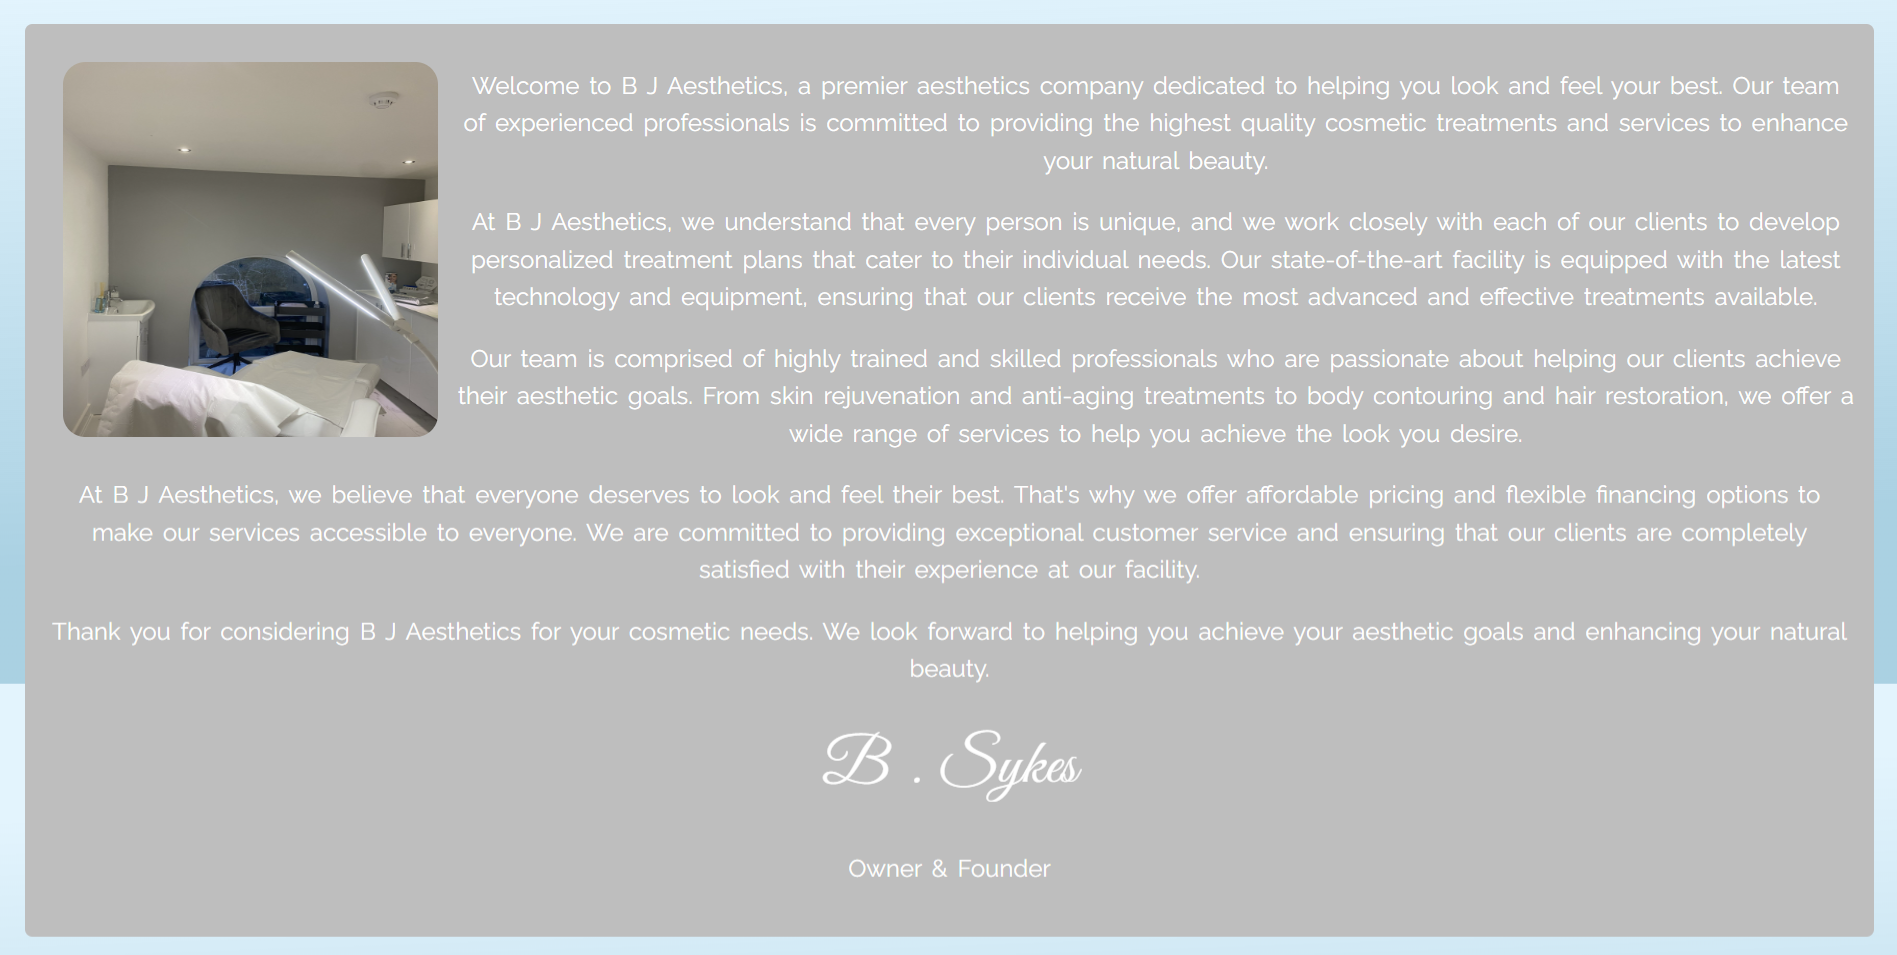
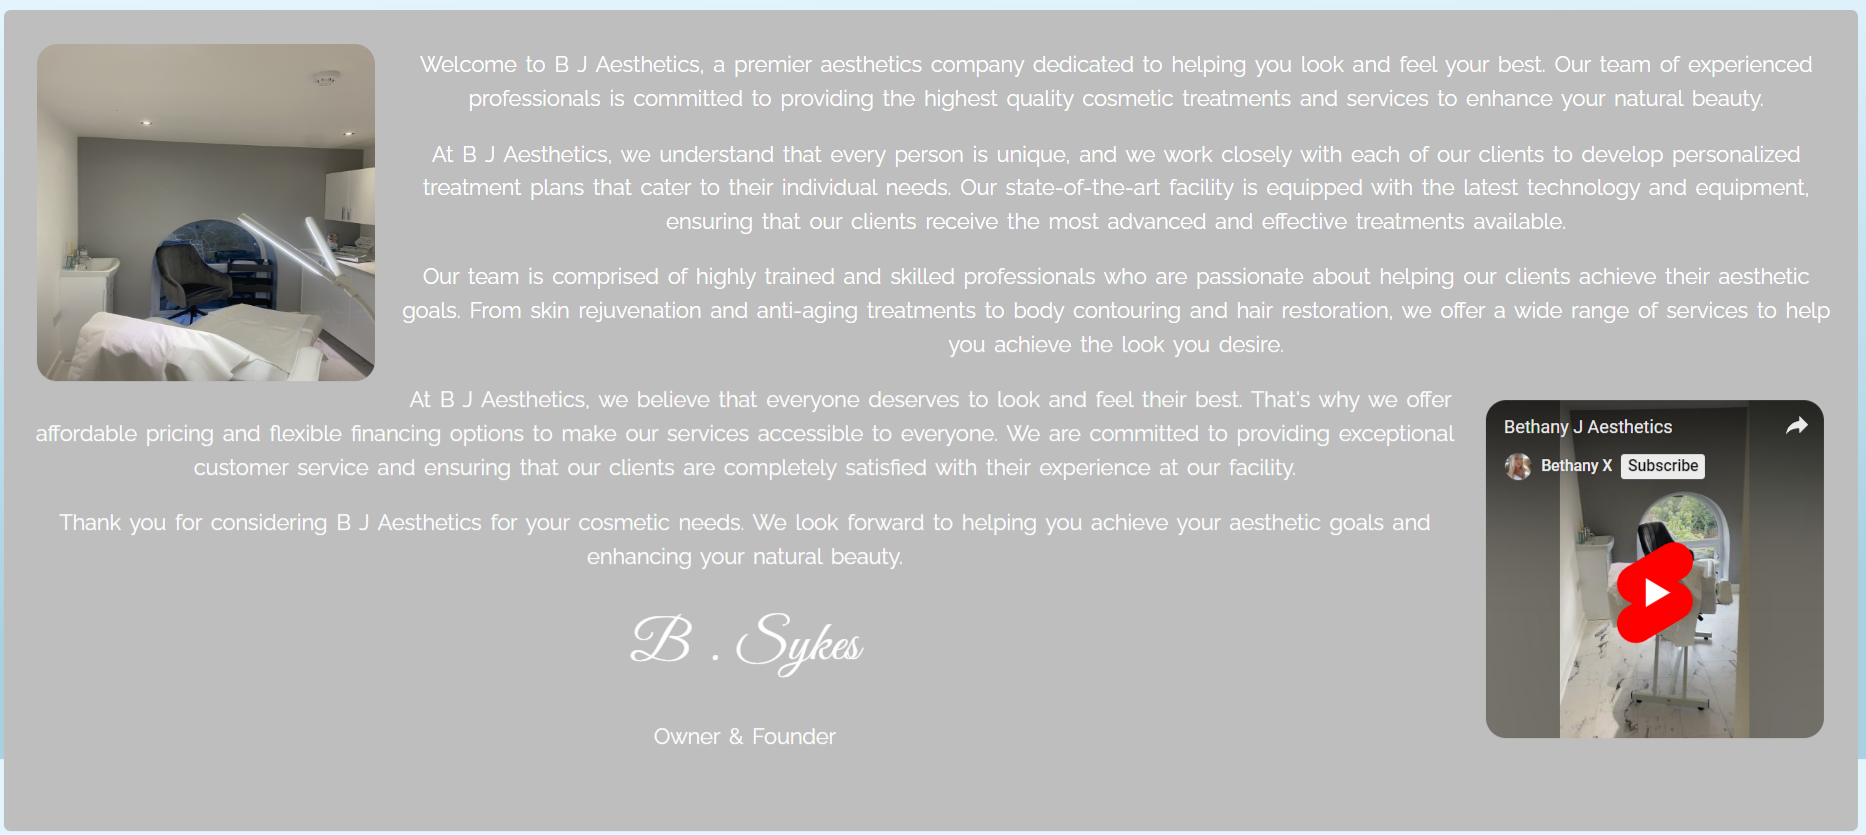
update about us in read me and alter contact us page  font sizes/ positioning

diff --git a/about.html b/about.html
@@ -58,16 +58,11 @@
           goals. From skin rejuvenation and anti-aging treatments to body
           contouring and hair restoration, we offer a wide range of services to
           help you achieve the look you desire.
-        </p><iframe
+        </p>
+        <iframe
           class="youtube-clip"
           src="https://youtube.com/embed/zPetaplQsqM?feature=share"
           title="YouTube video player"
-          frameborder="0"
-          allow="accelerometer; autoplay; clipboard-write; encrypted-media;
-gyroscope; picture-in-picture;
-web-share"
-          allowfullscreen
-          class="youtube-clip"
         ></iframe>
         <p>
           At B J Aesthetics, we believe that everyone deserves to look and feel
@@ -84,7 +79,6 @@ web-share"
         </p>
         <p class="signature">B . Sykes</p>
         <p>Owner & Founder</p>
-        
       </div>
     </section>
 

diff --git a/contact-us.html b/contact-us.html
@@ -30,7 +30,7 @@
     </header>
     <section>
       <div class="form">
-        <form action="Server URL" method="post">
+        <form action="https://BJASERVER" method="post">
           <label for="firstname">First name</label>
           <input
             id="firstname"

diff --git a/README.md b/README.md
@@ -52,6 +52,7 @@ The Website is to target both regular and brand new clients of Bethany J Aesthet
 
   - The About page is intended to really connect with customers and to reassure them of their ethos and goals.
   - The Photo of the treatment room in the top left is to show the users what to expect when they go get their treatment done and familiarises them with the setting.
+  - The Youtube short, embeded in the bottom right of the page gives users a virtual tour of the salon, this gives users an insite of what to expect when going to get a treatment done.
 
   ![Screenshot showing about us page with statemnt from owner and photo of treatment room in the top left](./assets/images/bja-about.png)
 
